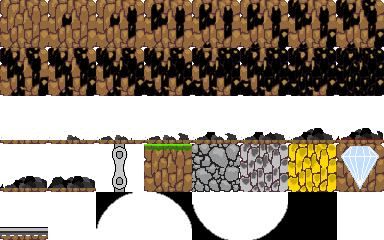
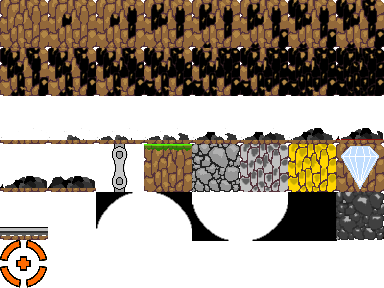
More graphics and tweaks

diff --git a/Graphics/makegfx.py b/Graphics/makegfx.py
@@ -15,7 +15,7 @@ for i in range(0,10):
 #
 #	Build the 48x48 and 16x16 tile maps
 #
-im = Image.new("RGBA",(48*8,48*5),(0,0,0,0))
+im = Image.new("RGBA",(48*8,48*6),(0,0,0,0))
 tileCount = 0
 
 def addTile(fileName):
@@ -39,6 +39,8 @@ addTile("diamond.png")
 addTile("rail.png")
 for i in range(0,6):
 	addTile("block"+str(i)+".png")
+addTile("granite.png")
+addTile("target.png")
 
 # write out at 48x48
 im.save("tiles.png")
